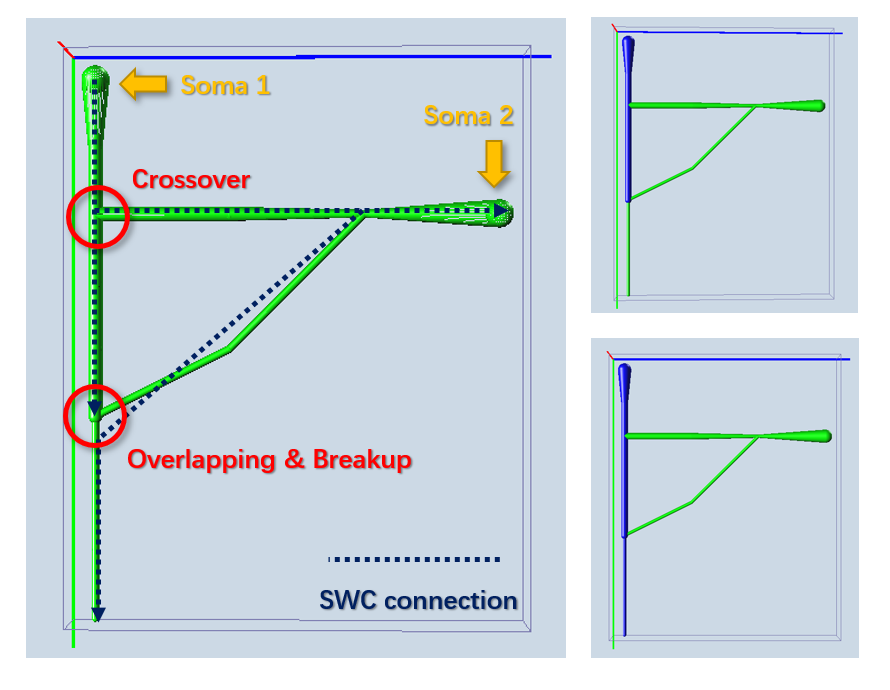
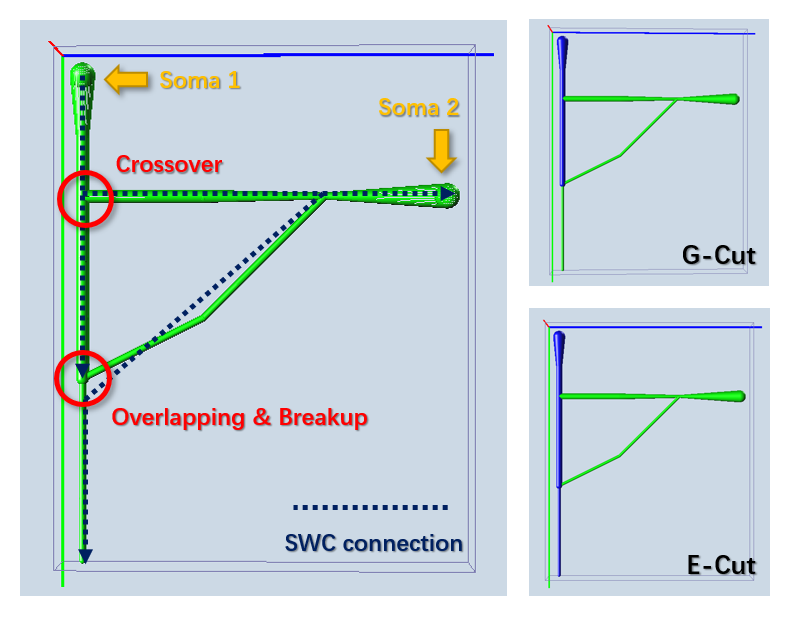
add soma detection

diff --git a/ecut/base_types.py b/ecut/base_types.py
@@ -194,3 +194,11 @@ class BaseMetric:
         :return: the computed metrics
         """
         pass
+
+
+class BaseSomaDetector:
+    def __init__(self, swc):
+        self._swc = swc
+
+    def run(self) -> list[int]:
+        pass

diff --git a/ecut/soma_detection.py b/ecut/soma_detection.py
@@ -1,0 +1,11 @@
+from .base_types import BaseSomaDetector
+
+
+class ImageBasedDetector(BaseSomaDetector):
+
+    def __init__(self, swc, img,):
+        super().__init__(swc)
+        self._img = img
+
+    def run(self):
+        pass

diff --git a/README.md b/README.md
@@ -39,11 +39,18 @@ e = ECut(tree, [0, 100], metric=metric)
 You can even subclass `ECut` and `EnsembleMetric` to create your own optimization workflow or
 introduce more metrics into it.
 
-## Comparison with the original G-Cut
+## Comparison with G-Cut
 
-E-Cut can segment highly complexed topological structures that can hardly be
-handled by G-Cut. In the following case, I construct a pseudo neuron with 2 types
-of common topological errors.
+E-Cut is enhanced with superior features based on G-Cut.
+
+**First, it introduces angle and radius metrics.** To make them compatible with
+the GOF probability, I replaced the shortest path searching with minimum spanning
+tree, so that all comparisons are performed locally (we take average GOF along
+the neurite path).
+
+**Second, it can handle more complexed topological errors.**
+In the following case, I construct a pseudo neuron with 2 types
+of common topological errors to compare their performance.
 
 ![pseudo](assets/compare.png)
 
